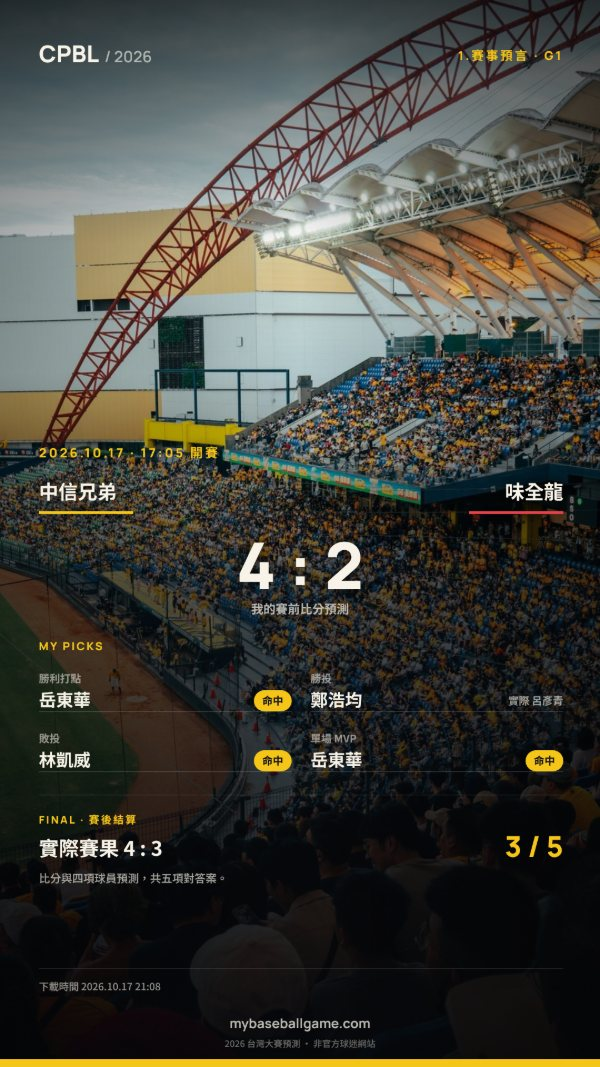
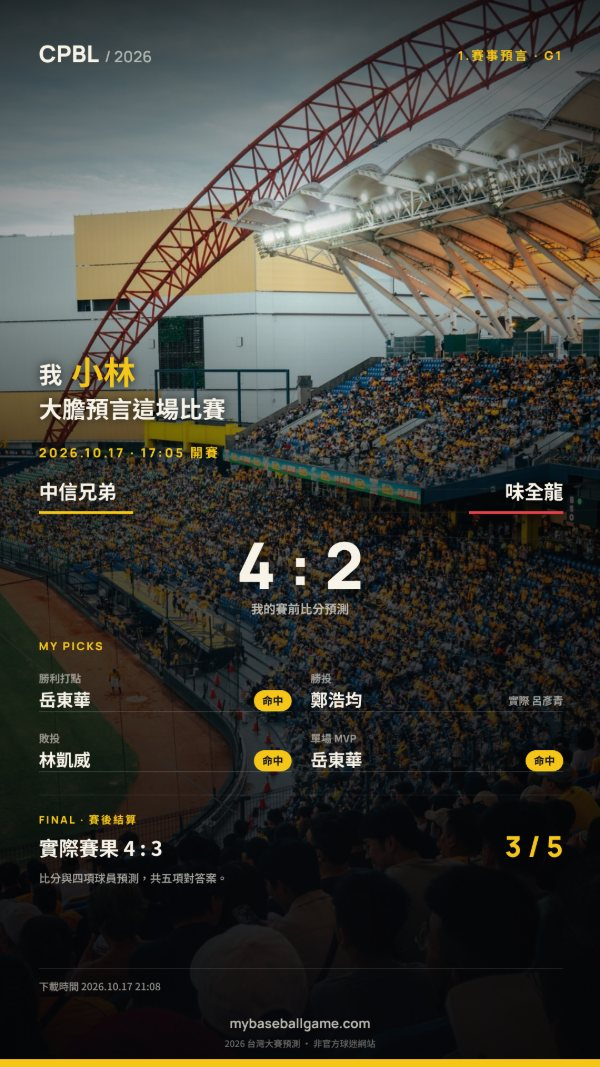
Taiwan Series: fan claim above the score, hero label wording

Changed region(s): [[0.0, 0.3093, 1.0, 0.4948]]

diff --git a/docs/index.html b/docs/index.html
@@ -732,7 +732,7 @@
   .builder-status{min-height:20px;font-size:11px;line-height:1.6;color:var(--accent)}
   .builder-controls>.cta{align-self:flex-start}
   .prediction-layout{display:grid;grid-template-columns:.86fr 1.14fr;gap:42px;align-items:start;width:100%;padding:clamp(18px,3vw,34px);border:1px solid color-mix(in srgb,var(--rule) 82%,transparent);border-radius:22px;background:linear-gradient(135deg,color-mix(in srgb,var(--panel) 64%,transparent),color-mix(in srgb,var(--panel) 34%,transparent));box-shadow:0 28px 80px -58px rgba(0,0,0,.7);backdrop-filter:blur(14px);-webkit-backdrop-filter:blur(14px);overflow:hidden}
-  .prediction-panel{display:flex;flex-direction:column;gap:24px;padding:0}
+  .prediction-panel{display:flex;flex-direction:column;gap:24px;padding:0;min-width:0}
   .prediction-group{display:flex;flex-direction:column;gap:10px}
   .prediction-label{font-size:11px;font-weight:700;letter-spacing:.12em;color:var(--muted)}
   .prediction-help{font-size:11px;line-height:1.65;color:var(--muted)}
@@ -764,6 +764,12 @@
   .ts-live-frame>[hidden]{display:none!important}
   .ts-live-frame img{transition:opacity .2s ease}
   .ts-live.is-rendering .ts-live-frame img{opacity:.55}
+  .ts-claim{display:flex;flex-direction:column;gap:4px;font-size:clamp(22px,2.6vw,28px);font-weight:700;line-height:1.35;color:var(--ink)}
+  .ts-claim-row{display:flex;align-items:baseline;gap:12px}
+  .ts-claim input{flex:1 1 0;width:0;min-width:0;height:50px;padding:0 4px;border:0;border-bottom:2px solid var(--accent-fill);border-radius:0;background:transparent;color:var(--accent);font:800 1em "Noto Sans TC",sans-serif}
+  .ts-claim input::placeholder{color:var(--muted);font-weight:700;opacity:.65}
+  .ts-claim input:focus{outline:none;border-bottom-color:var(--ink)}
+  .ts-claim small{margin-top:6px;color:var(--muted);font-size:10px;font-weight:400;line-height:1.6}
   .ts-preview-bar{margin:14px 0 0;padding:10px 14px;border-radius:10px;border:1px dashed var(--accent);color:var(--accent);font-size:12px;font-weight:700;text-align:center}
   .series-score-options{display:grid;grid-template-columns:repeat(4,minmax(0,1fr));gap:8px}
   .series-score-option{min-height:70px;padding:10px 8px;border:1px solid var(--rule);border-radius:10px;background:var(--panel);color:var(--ink-dim);font-size:10px;font-weight:700;line-height:1.5}
@@ -1131,14 +1137,14 @@
         </div>
         <button class="cta" data-series-jump>開始體驗 ↓</button>
       </div>
-      <div class="ts-flow" aria-label="圖卡範例：賽前留下 1.賽事預言，賽後同一張圖自動結算對答案">
+      <div class="ts-flow" aria-label="圖卡範例：賽前留下賽事預言，賽後同一張圖自動結算對答案">
         <figure class="ts-flow-card ts-flow-before">
-          <img src="img/taiwan-series/hero-prediction.jpg" width="600" height="1067" loading="lazy" alt="1.賽事預言範例：預測中信兄弟 4 比 2 味全龍，並選好勝利打點、勝投、敗投與 MVP">
-          <figcaption><b>賽前</b>1.賽事預言</figcaption>
+          <img src="img/taiwan-series/hero-prediction.jpg" width="600" height="1067" loading="lazy" alt="賽事預言範例：球迷大膽預言中信兄弟 4 比 2 味全龍，並選好勝利打點、勝投、敗投與 MVP">
+          <figcaption><b>賽前</b>賽事預言</figcaption>
         </figure>
         <div class="ts-flow-arrow" aria-hidden="true"><span>開賽<br>鎖定</span><i>→</i><span>賽果<br>出爐</span></div>
         <figure class="ts-flow-card ts-flow-after">
-          <img src="img/taiwan-series/hero-answer.jpg" width="600" height="1067" loading="lazy" alt="1.賽事預言賽後結算範例：實際比分 4 比 3，五項預測命中三項">
+          <img src="img/taiwan-series/hero-answer.jpg" width="600" height="1067" loading="lazy" alt="賽事預言賽後結算範例：實際比分 4 比 3，五項預測命中三項">
           <figcaption><b>賽後</b>結算對答案</figcaption>
         </figure>
         <span class="sample-tag">範例圖卡 · 非實際賽果</span>
@@ -1179,10 +1185,10 @@
           <div class="prediction-layout">
             <div class="prediction-panel">
               <div class="prediction-window"><i></i><div><b id="ts-prediction-window-title">預測開放中</b><span id="ts-prediction-window-copy">本場開賽時鎖定。</span></div></div>
-              <label class="prediction-name" for="ts-fan-name">
-                <span class="prediction-label">圖卡姓名（選填）</span>
-                <input id="ts-fan-name" type="text" maxlength="16" autocomplete="name" placeholder="輸入想顯示在圖卡上的名字">
-                <small>姓名只保存在這台裝置並押在下載圖上，不會送進公開投票。</small>
+              <label class="ts-claim" for="ts-fan-name">
+                <span class="ts-claim-row"><span>我</span><input id="ts-fan-name" type="text" maxlength="16" autocomplete="nickname" placeholder="你的名字"></span>
+                <span>大膽預言這場比賽</span>
+                <small>名字選填，只保存在這台裝置並寫在預測圖上，不會送進公開投票。</small>
               </label>
               <div class="prediction-group">
                 <span class="prediction-label">預測比分</span>
@@ -1225,10 +1231,10 @@
           <div class="prediction-layout">
             <div class="prediction-panel">
               <div class="prediction-window"><i></i><div><b id="ts-series-window-title">預測開放中</b><span class="prediction-lock" id="ts-series-window-copy">系列賽預測會在 G1 開賽時一起鎖定</span></div></div>
-              <label class="prediction-name" for="ts-series-name">
-                <span class="prediction-label">圖卡姓名（選填）</span>
-                <input id="ts-series-name" type="text" maxlength="16" autocomplete="name" placeholder="輸入想顯示在圖卡上的名字">
-                <small>姓名只保存在這台裝置並押在下載圖上，不會送進公開統計。</small>
+              <label class="ts-claim" for="ts-series-name">
+                <span class="ts-claim-row"><span>我</span><input id="ts-series-name" type="text" maxlength="16" autocomplete="nickname" placeholder="你的名字"></span>
+                <span>大膽預言這個系列賽</span>
+                <small>名字選填，只保存在這台裝置並寫在預測圖上，不會送進公開統計。</small>
               </label>
               <div class="prediction-group">
                 <span class="prediction-label">預測系列賽最終比分</span>
@@ -3468,6 +3474,19 @@ function tsRenderControls(){
   }
 }
 
+// "我 <名字> / 大膽預言這場比賽" — the fan's claim, drawn above the score.
+function tsDrawClaim(ctx, name, tail, accent){
+  const L = 70, R = SW - 66;
+  ctx.textAlign = "left"; ctx.fillStyle = "#F7F3E8";
+  if (name){
+    ctx.font = `700 42px ${F_TC}`; ctx.fillText("我", L, 690);
+    const x = L + ctx.measureText("我").width + 16;
+    ctx.fillStyle = accent.f; ctx.font = `800 58px ${F_TC}`; ctx.fillText(name, x, 692, R - x);
+    ctx.fillStyle = "#F7F3E8"; ctx.font = `700 42px ${F_TC}`; ctx.fillText(tail, L, 752);
+  } else {
+    ctx.font = `700 46px ${F_TC}`; ctx.fillText(`我${tail}`, L, 752);
+  }
+}
 function tsDate(iso){
   const [y,m,d] = iso.split("-"); return `${y}.${m}.${d}`;
 }
@@ -3547,9 +3566,9 @@ async function tsDrawFullBleed(ctx, record, url, away, home, accent){
   let shade = ctx.createLinearGradient(0, 0, 0, 440);
   shade.addColorStop(0, "rgba(0,0,0,.72)"); shade.addColorStop(1, "rgba(0,0,0,0)");
   ctx.fillStyle = shade; ctx.fillRect(0, 0, SW, 440);
-  shade = ctx.createLinearGradient(0, 670, 0, SH);
-  shade.addColorStop(0, "rgba(0,0,0,0)"); shade.addColorStop(.32, "rgba(7,8,11,.62)"); shade.addColorStop(1, "rgba(7,8,11,.94)");
-  ctx.fillStyle = shade; ctx.fillRect(0, 670, SW, SH - 670);
+  shade = ctx.createLinearGradient(0, 540, 0, SH);   // starts higher so the fan's claim stays readable
+  shade.addColorStop(0, "rgba(0,0,0,0)"); shade.addColorStop(.2, "rgba(7,8,11,.5)"); shade.addColorStop(.42, "rgba(7,8,11,.66)"); shade.addColorStop(1, "rgba(7,8,11,.94)");
+  ctx.fillStyle = shade; ctx.fillRect(0, 540, SW, SH - 540);
   const side = ctx.createLinearGradient(0, 0, SW, 0);
   side.addColorStop(0, "rgba(0,0,0,.30)"); side.addColorStop(.5, "rgba(0,0,0,0)"); side.addColorStop(1, "rgba(0,0,0,.30)");
   ctx.fillStyle = side; ctx.fillRect(0, 0, SW, SH);
@@ -3618,12 +3637,13 @@ async function tsSubmitSeriesPrediction(series){
   return {submitted:true,message:"已匿名納入系列賽比分預測；同一裝置再次送出會更新這一票。",data};
 }
 async function tsDrawPrediction(game, prediction, stamp = tsDownloadStamp()){
-  await loadFontsFor(`${game.away}${game.home}${prediction.rbi}${prediction.win}${prediction.loss}${prediction.mvp}${tsFanName()}`);
+  await loadFontsFor(`${game.away}${game.home}${prediction.rbi}${prediction.win}${prediction.loss}${prediction.mvp}${tsFanName()}我大膽預言這場比賽`);
   const winner = prediction.awayScore > prediction.homeScore ? game.away : game.home;
   const {c,ctx,accent}=tsBase(game,winner),L=70,R=SW-66;
   await tsDrawFullBleed(ctx,prediction.bg === "photo" ? tsPhoto : null,prediction.bg === "photo" ? tsPhotoURL : "",game.away,game.home,accent);
   tsHeader(ctx,game,`1.賽事預言 · G${game.g}`,accent);
   ctx.save();ctx.shadowColor="rgba(0,0,0,.78)";ctx.shadowBlur=18;
+  tsDrawClaim(ctx,tsFanName(),"大膽預言這場比賽",accent);
   ctx.fillStyle=accent.f;ctx.font=`800 23px ${F_NUM}`;spacing(ctx,4);ctx.fillText(`${tsDate(game.date)} · ${game.time} 開賽`,L,823);spacing(ctx,0);
   ctx.fillStyle="#F7F3E8";ctx.font=`700 35px ${F_TC}`;ctx.fillText(teamDisplayName(game.away),L,898);ctx.textAlign="right";ctx.fillText(teamDisplayName(game.home),R,898);
   ctx.fillStyle=ACCENT[game.away].f;ctx.fillRect(L,920,170,5);ctx.fillStyle=ACCENT[game.home].f;ctx.fillRect(R-170,920,170,5);
@@ -3651,17 +3671,17 @@ async function tsDrawPrediction(game, prediction, stamp = tsDownloadStamp()){
     ctx.fillStyle="rgba(247,243,232,.68)";ctx.font=`500 20px ${F_TC}`;ctx.fillText("賽果更新後，用同一台裝置回來對答案。",L,1588);
   }
   ctx.fillStyle="rgba(255,255,255,.14)";ctx.fillRect(L,1742,R-L,1);ctx.fillStyle="rgba(247,243,232,.58)";ctx.font=`500 18px ${F_TC}`;ctx.fillText(`下載時間 ${stamp}`,L,1782);
-  const fan=tsFanName();if(fan){ctx.textAlign="right";ctx.font=`700 20px ${F_TC}`;ctx.fillText(`球迷 ${fan}`,R,1782);ctx.textAlign="left";}
   ctx.textAlign="center";ctx.fillStyle="rgba(247,243,232,.75)";ctx.font=`700 24px ${F_NUM}`;ctx.fillText("mybaseballgame.com",SW/2,1850);ctx.fillStyle="rgba(247,243,232,.42)";ctx.font=`500 16px ${F_TC}`;ctx.fillText("2026 台灣大賽預測 · 非官方球迷網站",SW/2,1884);return c;
 }
 async function tsDrawSeriesPrediction(game, series, stamp = tsDownloadStamp()){
   const brothers="中信兄弟",dragons="味全龍",winner=series.brothersWins>series.dragonsWins?brothers:dragons;
-  await loadFontsFor(`${brothers}${dragons}${tsSeriesName()}`);
+  await loadFontsFor(`${brothers}${dragons}${tsSeriesName()}我大膽預言這個系列賽七戰四勝`);
   const {c,ctx,accent}=tsBase(game,winner),L=70,R=SW-66;
   await tsDrawFullBleed(ctx,tsSeriesPhoto,tsSeriesPhotoURL,brothers,dragons,accent);
   tsHeader(ctx,game,"2.系列賽預言",accent);
   ctx.save();ctx.shadowColor="rgba(0,0,0,.8)";ctx.shadowBlur=18;
-  ctx.fillStyle=accent.f;ctx.font=`800 22px ${F_NUM}`;spacing(ctx,4);ctx.fillText("2026 台灣大賽 · 我的系列賽預言",L,823);spacing(ctx,0);
+  tsDrawClaim(ctx,tsSeriesName(),"大膽預言這個系列賽",accent);
+  ctx.fillStyle=accent.f;ctx.font=`800 22px ${F_NUM}`;spacing(ctx,4);ctx.fillText("2026 台灣大賽 · 七戰四勝",L,823);spacing(ctx,0);
   ctx.fillStyle="#F7F3E8";ctx.font=`700 38px ${F_TC}`;ctx.textAlign="left";ctx.fillText(teamDisplayName(brothers),L,915);ctx.textAlign="right";ctx.fillText(teamDisplayName(dragons),R,915);
   ctx.fillStyle=ACCENT[brothers].f;ctx.fillRect(L,939,190,5);ctx.fillStyle=ACCENT[dragons].f;ctx.fillRect(R-190,939,190,5);
   ctx.textAlign="center";ctx.fillStyle="#F7F3E8";ctx.font=`800 126px ${F_NUM}`;ctx.fillText(`${series.brothersWins} : ${series.dragonsWins}`,SW/2,1095);
@@ -3670,8 +3690,7 @@ async function tsDrawSeriesPrediction(game, series, stamp = tsDownloadStamp()){
   const colW=(R-L-40)/2;[[brothers,series.brothersWins],[dragons,series.dragonsWins]].forEach(([team,wins],i)=>{const x=L+i*(colW+40);ctx.fillStyle="rgba(255,255,255,.18)";ctx.fillRect(x,1402,colW,1);ctx.fillStyle="rgba(247,243,232,.68)";ctx.font=`600 25px ${F_TC}`;ctx.fillText(teamDisplayName(team),x,1282);ctx.fillStyle=team===winner?accent.f:"#F7F3E8";ctx.font=`800 96px ${F_NUM}`;ctx.fillText(String(wins),x,1374);const w=ctx.measureText(String(wins)).width;ctx.fillStyle="rgba(247,243,232,.78)";ctx.font=`700 28px ${F_TC}`;ctx.fillText("勝",x+w+10,1374);});
   ctx.fillStyle="rgba(255,255,255,.18)";ctx.fillRect(L,1450,R-L,1);ctx.fillStyle="#F7F3E8";ctx.font=`700 38px ${F_TC}`;ctx.fillText(`系列賽打滿 ${series.brothersWins+series.dragonsWins} 場`,L,1515);ctx.fillStyle="rgba(247,243,232,.68)";ctx.font=`500 22px ${F_TC}`;ctx.fillText("G1 開賽後鎖定這張預測",L,1565);
   ctx.fillStyle="rgba(255,255,255,.14)";ctx.fillRect(L,1680,R-L,1);ctx.fillStyle="rgba(247,243,232,.56)";ctx.font=`500 19px ${F_TC}`;ctx.fillText("系列賽預測將在 G1 開賽時鎖定",L,1726);
-  const fan=tsSeriesName();ctx.fillStyle="rgba(247,243,232,.58)";ctx.font=`500 18px ${F_TC}`;ctx.fillText(`下載時間 ${stamp}`,L,1780);
-  if(fan){ctx.textAlign="right";ctx.font=`700 20px ${F_TC}`;ctx.fillText(`球迷 ${fan}`,R,1780);ctx.textAlign="left";}
+  ctx.fillStyle="rgba(247,243,232,.58)";ctx.font=`500 18px ${F_TC}`;ctx.fillText(`下載時間 ${stamp}`,L,1780);
   ctx.textAlign="center";ctx.fillStyle="rgba(247,243,232,.75)";ctx.font=`700 24px ${F_NUM}`;ctx.fillText("mybaseballgame.com",SW/2,1850);ctx.fillStyle="rgba(247,243,232,.42)";ctx.font=`500 16px ${F_TC}`;ctx.fillText("2026 台灣大賽預測 · 非官方球迷網站",SW/2,1884);return c;
 }
 async function tsDrawCover(game, team, stamp = tsDownloadStamp()){

diff --git a/src/app.html b/src/app.html
@@ -728,7 +728,7 @@
   .builder-status{min-height:20px;font-size:11px;line-height:1.6;color:var(--accent)}
   .builder-controls>.cta{align-self:flex-start}
   .prediction-layout{display:grid;grid-template-columns:.86fr 1.14fr;gap:42px;align-items:start;width:100%;padding:clamp(18px,3vw,34px);border:1px solid color-mix(in srgb,var(--rule) 82%,transparent);border-radius:22px;background:linear-gradient(135deg,color-mix(in srgb,var(--panel) 64%,transparent),color-mix(in srgb,var(--panel) 34%,transparent));box-shadow:0 28px 80px -58px rgba(0,0,0,.7);backdrop-filter:blur(14px);-webkit-backdrop-filter:blur(14px);overflow:hidden}
-  .prediction-panel{display:flex;flex-direction:column;gap:24px;padding:0}
+  .prediction-panel{display:flex;flex-direction:column;gap:24px;padding:0;min-width:0}
   .prediction-group{display:flex;flex-direction:column;gap:10px}
   .prediction-label{font-size:11px;font-weight:700;letter-spacing:.12em;color:var(--muted)}
   .prediction-help{font-size:11px;line-height:1.65;color:var(--muted)}
@@ -760,6 +760,12 @@
   .ts-live-frame>[hidden]{display:none!important}
   .ts-live-frame img{transition:opacity .2s ease}
   .ts-live.is-rendering .ts-live-frame img{opacity:.55}
+  .ts-claim{display:flex;flex-direction:column;gap:4px;font-size:clamp(22px,2.6vw,28px);font-weight:700;line-height:1.35;color:var(--ink)}
+  .ts-claim-row{display:flex;align-items:baseline;gap:12px}
+  .ts-claim input{flex:1 1 0;width:0;min-width:0;height:50px;padding:0 4px;border:0;border-bottom:2px solid var(--accent-fill);border-radius:0;background:transparent;color:var(--accent);font:800 1em "Noto Sans TC",sans-serif}
+  .ts-claim input::placeholder{color:var(--muted);font-weight:700;opacity:.65}
+  .ts-claim input:focus{outline:none;border-bottom-color:var(--ink)}
+  .ts-claim small{margin-top:6px;color:var(--muted);font-size:10px;font-weight:400;line-height:1.6}
   .ts-preview-bar{margin:14px 0 0;padding:10px 14px;border-radius:10px;border:1px dashed var(--accent);color:var(--accent);font-size:12px;font-weight:700;text-align:center}
   .series-score-options{display:grid;grid-template-columns:repeat(4,minmax(0,1fr));gap:8px}
   .series-score-option{min-height:70px;padding:10px 8px;border:1px solid var(--rule);border-radius:10px;background:var(--panel);color:var(--ink-dim);font-size:10px;font-weight:700;line-height:1.5}
@@ -1124,14 +1130,14 @@
         </div>
         <button class="cta" data-series-jump>開始體驗 ↓</button>
       </div>
-      <div class="ts-flow" aria-label="圖卡範例：賽前留下 1.賽事預言，賽後同一張圖自動結算對答案">
+      <div class="ts-flow" aria-label="圖卡範例：賽前留下賽事預言，賽後同一張圖自動結算對答案">
         <figure class="ts-flow-card ts-flow-before">
-          <img src="img/taiwan-series/hero-prediction.jpg" width="600" height="1067" loading="lazy" alt="1.賽事預言範例：預測中信兄弟 4 比 2 味全龍，並選好勝利打點、勝投、敗投與 MVP">
-          <figcaption><b>賽前</b>1.賽事預言</figcaption>
+          <img src="img/taiwan-series/hero-prediction.jpg" width="600" height="1067" loading="lazy" alt="賽事預言範例：球迷大膽預言中信兄弟 4 比 2 味全龍，並選好勝利打點、勝投、敗投與 MVP">
+          <figcaption><b>賽前</b>賽事預言</figcaption>
         </figure>
         <div class="ts-flow-arrow" aria-hidden="true"><span>開賽<br>鎖定</span><i>→</i><span>賽果<br>出爐</span></div>
         <figure class="ts-flow-card ts-flow-after">
-          <img src="img/taiwan-series/hero-answer.jpg" width="600" height="1067" loading="lazy" alt="1.賽事預言賽後結算範例：實際比分 4 比 3，五項預測命中三項">
+          <img src="img/taiwan-series/hero-answer.jpg" width="600" height="1067" loading="lazy" alt="賽事預言賽後結算範例：實際比分 4 比 3，五項預測命中三項">
           <figcaption><b>賽後</b>結算對答案</figcaption>
         </figure>
         <span class="sample-tag">範例圖卡 · 非實際賽果</span>
@@ -1172,10 +1178,10 @@
           <div class="prediction-layout">
             <div class="prediction-panel">
               <div class="prediction-window"><i></i><div><b id="ts-prediction-window-title">預測開放中</b><span id="ts-prediction-window-copy">本場開賽時鎖定。</span></div></div>
-              <label class="prediction-name" for="ts-fan-name">
-                <span class="prediction-label">圖卡姓名（選填）</span>
-                <input id="ts-fan-name" type="text" maxlength="16" autocomplete="name" placeholder="輸入想顯示在圖卡上的名字">
-                <small>姓名只保存在這台裝置並押在下載圖上，不會送進公開投票。</small>
+              <label class="ts-claim" for="ts-fan-name">
+                <span class="ts-claim-row"><span>我</span><input id="ts-fan-name" type="text" maxlength="16" autocomplete="nickname" placeholder="你的名字"></span>
+                <span>大膽預言這場比賽</span>
+                <small>名字選填，只保存在這台裝置並寫在預測圖上，不會送進公開投票。</small>
               </label>
               <div class="prediction-group">
                 <span class="prediction-label">預測比分</span>
@@ -1218,10 +1224,10 @@
           <div class="prediction-layout">
             <div class="prediction-panel">
               <div class="prediction-window"><i></i><div><b id="ts-series-window-title">預測開放中</b><span class="prediction-lock" id="ts-series-window-copy">系列賽預測會在 G1 開賽時一起鎖定</span></div></div>
-              <label class="prediction-name" for="ts-series-name">
-                <span class="prediction-label">圖卡姓名（選填）</span>
-                <input id="ts-series-name" type="text" maxlength="16" autocomplete="name" placeholder="輸入想顯示在圖卡上的名字">
-                <small>姓名只保存在這台裝置並押在下載圖上，不會送進公開統計。</small>
+              <label class="ts-claim" for="ts-series-name">
+                <span class="ts-claim-row"><span>我</span><input id="ts-series-name" type="text" maxlength="16" autocomplete="nickname" placeholder="你的名字"></span>
+                <span>大膽預言這個系列賽</span>
+                <small>名字選填，只保存在這台裝置並寫在預測圖上，不會送進公開統計。</small>
               </label>
               <div class="prediction-group">
                 <span class="prediction-label">預測系列賽最終比分</span>
@@ -3461,6 +3467,19 @@ function tsRenderControls(){
   }
 }
 
+// "我 <名字> / 大膽預言這場比賽" — the fan's claim, drawn above the score.
+function tsDrawClaim(ctx, name, tail, accent){
+  const L = 70, R = SW - 66;
+  ctx.textAlign = "left"; ctx.fillStyle = "#F7F3E8";
+  if (name){
+    ctx.font = `700 42px ${F_TC}`; ctx.fillText("我", L, 690);
+    const x = L + ctx.measureText("我").width + 16;
+    ctx.fillStyle = accent.f; ctx.font = `800 58px ${F_TC}`; ctx.fillText(name, x, 692, R - x);
+    ctx.fillStyle = "#F7F3E8"; ctx.font = `700 42px ${F_TC}`; ctx.fillText(tail, L, 752);
+  } else {
+    ctx.font = `700 46px ${F_TC}`; ctx.fillText(`我${tail}`, L, 752);
+  }
+}
 function tsDate(iso){
   const [y,m,d] = iso.split("-"); return `${y}.${m}.${d}`;
 }
@@ -3540,9 +3559,9 @@ async function tsDrawFullBleed(ctx, record, url, away, home, accent){
   let shade = ctx.createLinearGradient(0, 0, 0, 440);
   shade.addColorStop(0, "rgba(0,0,0,.72)"); shade.addColorStop(1, "rgba(0,0,0,0)");
   ctx.fillStyle = shade; ctx.fillRect(0, 0, SW, 440);
-  shade = ctx.createLinearGradient(0, 670, 0, SH);
-  shade.addColorStop(0, "rgba(0,0,0,0)"); shade.addColorStop(.32, "rgba(7,8,11,.62)"); shade.addColorStop(1, "rgba(7,8,11,.94)");
-  ctx.fillStyle = shade; ctx.fillRect(0, 670, SW, SH - 670);
+  shade = ctx.createLinearGradient(0, 540, 0, SH);   // starts higher so the fan's claim stays readable
+  shade.addColorStop(0, "rgba(0,0,0,0)"); shade.addColorStop(.2, "rgba(7,8,11,.5)"); shade.addColorStop(.42, "rgba(7,8,11,.66)"); shade.addColorStop(1, "rgba(7,8,11,.94)");
+  ctx.fillStyle = shade; ctx.fillRect(0, 540, SW, SH - 540);
   const side = ctx.createLinearGradient(0, 0, SW, 0);
   side.addColorStop(0, "rgba(0,0,0,.30)"); side.addColorStop(.5, "rgba(0,0,0,0)"); side.addColorStop(1, "rgba(0,0,0,.30)");
   ctx.fillStyle = side; ctx.fillRect(0, 0, SW, SH);
@@ -3611,12 +3630,13 @@ async function tsSubmitSeriesPrediction(series){
   return {submitted:true,message:"已匿名納入系列賽比分預測；同一裝置再次送出會更新這一票。",data};
 }
 async function tsDrawPrediction(game, prediction, stamp = tsDownloadStamp()){
-  await loadFontsFor(`${game.away}${game.home}${prediction.rbi}${prediction.win}${prediction.loss}${prediction.mvp}${tsFanName()}`);
+  await loadFontsFor(`${game.away}${game.home}${prediction.rbi}${prediction.win}${prediction.loss}${prediction.mvp}${tsFanName()}我大膽預言這場比賽`);
   const winner = prediction.awayScore > prediction.homeScore ? game.away : game.home;
   const {c,ctx,accent}=tsBase(game,winner),L=70,R=SW-66;
   await tsDrawFullBleed(ctx,prediction.bg === "photo" ? tsPhoto : null,prediction.bg === "photo" ? tsPhotoURL : "",game.away,game.home,accent);
   tsHeader(ctx,game,`1.賽事預言 · G${game.g}`,accent);
   ctx.save();ctx.shadowColor="rgba(0,0,0,.78)";ctx.shadowBlur=18;
+  tsDrawClaim(ctx,tsFanName(),"大膽預言這場比賽",accent);
   ctx.fillStyle=accent.f;ctx.font=`800 23px ${F_NUM}`;spacing(ctx,4);ctx.fillText(`${tsDate(game.date)} · ${game.time} 開賽`,L,823);spacing(ctx,0);
   ctx.fillStyle="#F7F3E8";ctx.font=`700 35px ${F_TC}`;ctx.fillText(teamDisplayName(game.away),L,898);ctx.textAlign="right";ctx.fillText(teamDisplayName(game.home),R,898);
   ctx.fillStyle=ACCENT[game.away].f;ctx.fillRect(L,920,170,5);ctx.fillStyle=ACCENT[game.home].f;ctx.fillRect(R-170,920,170,5);
@@ -3644,17 +3664,17 @@ async function tsDrawPrediction(game, prediction, stamp = tsDownloadStamp()){
     ctx.fillStyle="rgba(247,243,232,.68)";ctx.font=`500 20px ${F_TC}`;ctx.fillText("賽果更新後，用同一台裝置回來對答案。",L,1588);
   }
   ctx.fillStyle="rgba(255,255,255,.14)";ctx.fillRect(L,1742,R-L,1);ctx.fillStyle="rgba(247,243,232,.58)";ctx.font=`500 18px ${F_TC}`;ctx.fillText(`下載時間 ${stamp}`,L,1782);
-  const fan=tsFanName();if(fan){ctx.textAlign="right";ctx.font=`700 20px ${F_TC}`;ctx.fillText(`球迷 ${fan}`,R,1782);ctx.textAlign="left";}
   ctx.textAlign="center";ctx.fillStyle="rgba(247,243,232,.75)";ctx.font=`700 24px ${F_NUM}`;ctx.fillText("mybaseballgame.com",SW/2,1850);ctx.fillStyle="rgba(247,243,232,.42)";ctx.font=`500 16px ${F_TC}`;ctx.fillText("2026 台灣大賽預測 · 非官方球迷網站",SW/2,1884);return c;
 }
 async function tsDrawSeriesPrediction(game, series, stamp = tsDownloadStamp()){
   const brothers="中信兄弟",dragons="味全龍",winner=series.brothersWins>series.dragonsWins?brothers:dragons;
-  await loadFontsFor(`${brothers}${dragons}${tsSeriesName()}`);
+  await loadFontsFor(`${brothers}${dragons}${tsSeriesName()}我大膽預言這個系列賽七戰四勝`);
   const {c,ctx,accent}=tsBase(game,winner),L=70,R=SW-66;
   await tsDrawFullBleed(ctx,tsSeriesPhoto,tsSeriesPhotoURL,brothers,dragons,accent);
   tsHeader(ctx,game,"2.系列賽預言",accent);
   ctx.save();ctx.shadowColor="rgba(0,0,0,.8)";ctx.shadowBlur=18;
-  ctx.fillStyle=accent.f;ctx.font=`800 22px ${F_NUM}`;spacing(ctx,4);ctx.fillText("2026 台灣大賽 · 我的系列賽預言",L,823);spacing(ctx,0);
+  tsDrawClaim(ctx,tsSeriesName(),"大膽預言這個系列賽",accent);
+  ctx.fillStyle=accent.f;ctx.font=`800 22px ${F_NUM}`;spacing(ctx,4);ctx.fillText("2026 台灣大賽 · 七戰四勝",L,823);spacing(ctx,0);
   ctx.fillStyle="#F7F3E8";ctx.font=`700 38px ${F_TC}`;ctx.textAlign="left";ctx.fillText(teamDisplayName(brothers),L,915);ctx.textAlign="right";ctx.fillText(teamDisplayName(dragons),R,915);
   ctx.fillStyle=ACCENT[brothers].f;ctx.fillRect(L,939,190,5);ctx.fillStyle=ACCENT[dragons].f;ctx.fillRect(R-190,939,190,5);
   ctx.textAlign="center";ctx.fillStyle="#F7F3E8";ctx.font=`800 126px ${F_NUM}`;ctx.fillText(`${series.brothersWins} : ${series.dragonsWins}`,SW/2,1095);
@@ -3663,8 +3683,7 @@ async function tsDrawSeriesPrediction(game, series, stamp = tsDownloadStamp()){
   const colW=(R-L-40)/2;[[brothers,series.brothersWins],[dragons,series.dragonsWins]].forEach(([team,wins],i)=>{const x=L+i*(colW+40);ctx.fillStyle="rgba(255,255,255,.18)";ctx.fillRect(x,1402,colW,1);ctx.fillStyle="rgba(247,243,232,.68)";ctx.font=`600 25px ${F_TC}`;ctx.fillText(teamDisplayName(team),x,1282);ctx.fillStyle=team===winner?accent.f:"#F7F3E8";ctx.font=`800 96px ${F_NUM}`;ctx.fillText(String(wins),x,1374);const w=ctx.measureText(String(wins)).width;ctx.fillStyle="rgba(247,243,232,.78)";ctx.font=`700 28px ${F_TC}`;ctx.fillText("勝",x+w+10,1374);});
   ctx.fillStyle="rgba(255,255,255,.18)";ctx.fillRect(L,1450,R-L,1);ctx.fillStyle="#F7F3E8";ctx.font=`700 38px ${F_TC}`;ctx.fillText(`系列賽打滿 ${series.brothersWins+series.dragonsWins} 場`,L,1515);ctx.fillStyle="rgba(247,243,232,.68)";ctx.font=`500 22px ${F_TC}`;ctx.fillText("G1 開賽後鎖定這張預測",L,1565);
   ctx.fillStyle="rgba(255,255,255,.14)";ctx.fillRect(L,1680,R-L,1);ctx.fillStyle="rgba(247,243,232,.56)";ctx.font=`500 19px ${F_TC}`;ctx.fillText("系列賽預測將在 G1 開賽時鎖定",L,1726);
-  const fan=tsSeriesName();ctx.fillStyle="rgba(247,243,232,.58)";ctx.font=`500 18px ${F_TC}`;ctx.fillText(`下載時間 ${stamp}`,L,1780);
-  if(fan){ctx.textAlign="right";ctx.font=`700 20px ${F_TC}`;ctx.fillText(`球迷 ${fan}`,R,1780);ctx.textAlign="left";}
+  ctx.fillStyle="rgba(247,243,232,.58)";ctx.font=`500 18px ${F_TC}`;ctx.fillText(`下載時間 ${stamp}`,L,1780);
   ctx.textAlign="center";ctx.fillStyle="rgba(247,243,232,.75)";ctx.font=`700 24px ${F_NUM}`;ctx.fillText("mybaseballgame.com",SW/2,1850);ctx.fillStyle="rgba(247,243,232,.42)";ctx.font=`500 16px ${F_TC}`;ctx.fillText("2026 台灣大賽預測 · 非官方球迷網站",SW/2,1884);return c;
 }
 async function tsDrawCover(game, team, stamp = tsDownloadStamp()){

diff --git a/tools/prerender_ts_hero.py b/tools/prerender_ts_hero.py
@@ -31,7 +31,7 @@ JS = """async (c) => {
     return {blob, w:bm.width, h:bm.height, fx:p.fx, fy:p.fy, z:p.z};
   };
   const usePhoto = p => { tsPhoto = p; tsPhotoURL = URL.createObjectURL(p.blob); };
-  document.getElementById('ts-fan-name').value = '';
+  document.getElementById('ts-fan-name').value = c.fanName || '';
   const enc = (cv, t, q) => new Promise(r => cv.toBlob(b => { const f = new FileReader(); f.onload = () => r(f.result); f.readAsDataURL(b); }, t, q));
   const shrink = big => { const s = document.createElement('canvas'); s.width = 600; s.height = 1067;
     const x = s.getContext('2d'); x.imageSmoothingQuality = 'high'; x.drawImage(big, 0, 0, 600, 1067); return s; };
